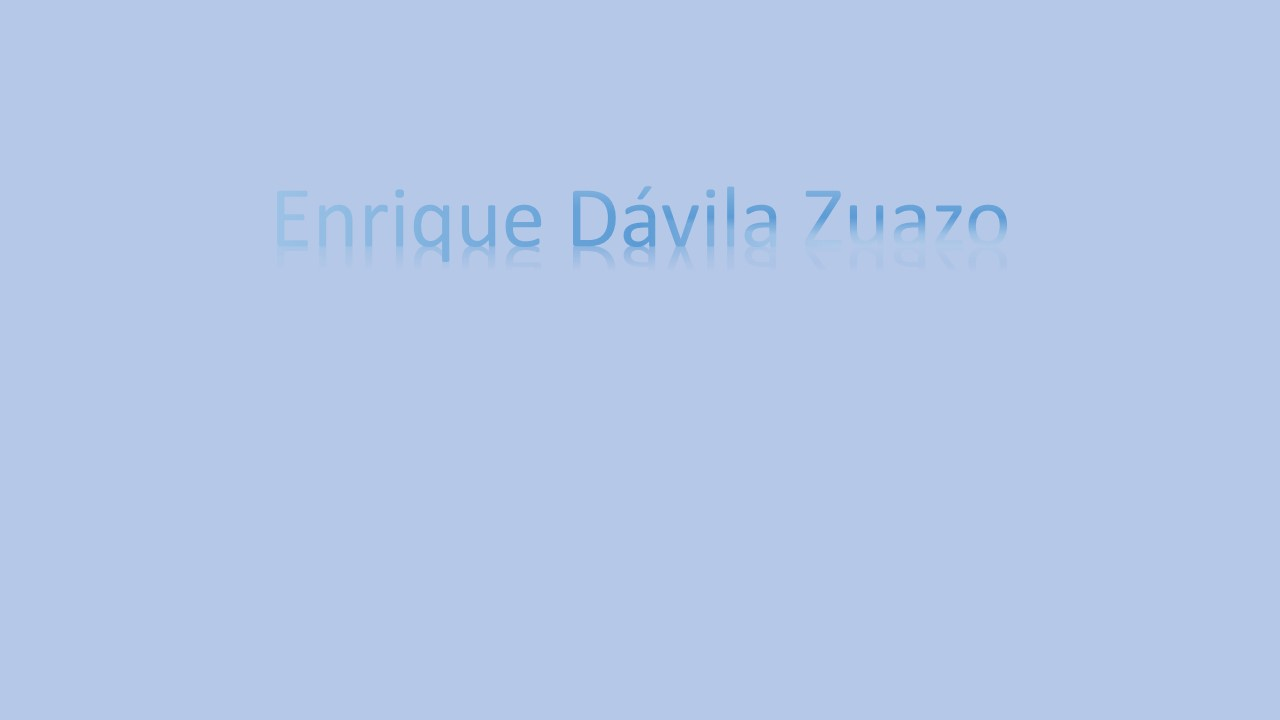
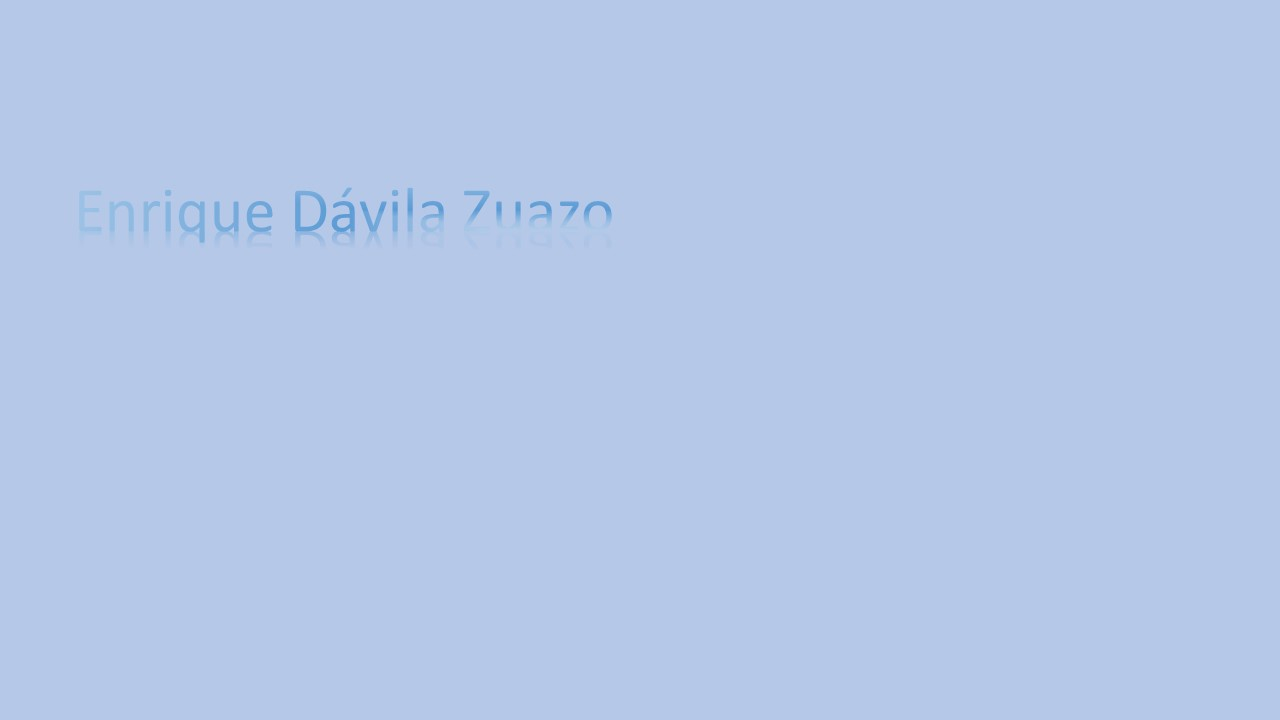
Diseño responsivo

Changed region(s): [[0.0625, 0.2444, 0.8125, 0.3667]]

diff --git a/index.html b/index.html
@@ -19,7 +19,7 @@
     <title>DATOS PERSONALES</title>
   </head>
   <body>
-    <div class="container bg-transparent">
+    <div class="container bg-transparent col-sm-1 col-md-6 col-lg-12">
       <h1 class="display-4 text-center text-primary">DATOS PERSONALES</h1>
       <figure>
         <img src="img/edz5.jpg" width="100%" alt="Imagen Enrique Davila Zuazo"> 

diff --git a/estudiosrealizados.html b/estudiosrealizados.html
@@ -14,7 +14,7 @@
     <title>ESTUDIOS REALIZADOS</title>
   </head>
   <body>
-    <div class="container bg-transparent">
+    <div class="container bg-transparent col-sm-1 col-md-6 col-lg-12">
     <table class=" table table-striped table-hover">
       <tr>
         <td colspan="2" class=" display-4 text-primary text-center">

diff --git a/experiencialaboral.html b/experiencialaboral.html
@@ -14,7 +14,7 @@
     <title>EXPERIENCIA LABORAL</title>
   </head>
   <body>
-    <div class="container">
+    <div class="container col-sm-1 col-md-6 col-lg-12">
         <div class="row row-cols-1">
           <h1 class="display-4 text-center text-primary" >EXPERIENCIA LABORAL</h1>  
         </div>

diff --git a/css/estilos.css b/css/estilos.css
@@ -1,5 +1,5 @@
 body{
-		background-image: url(../img/09.jpg);
+		background-image: url(../img/03.jpg);
 		font-size: 20px;
 		font-family: "Arial Black";
 		font-style: oblique;
